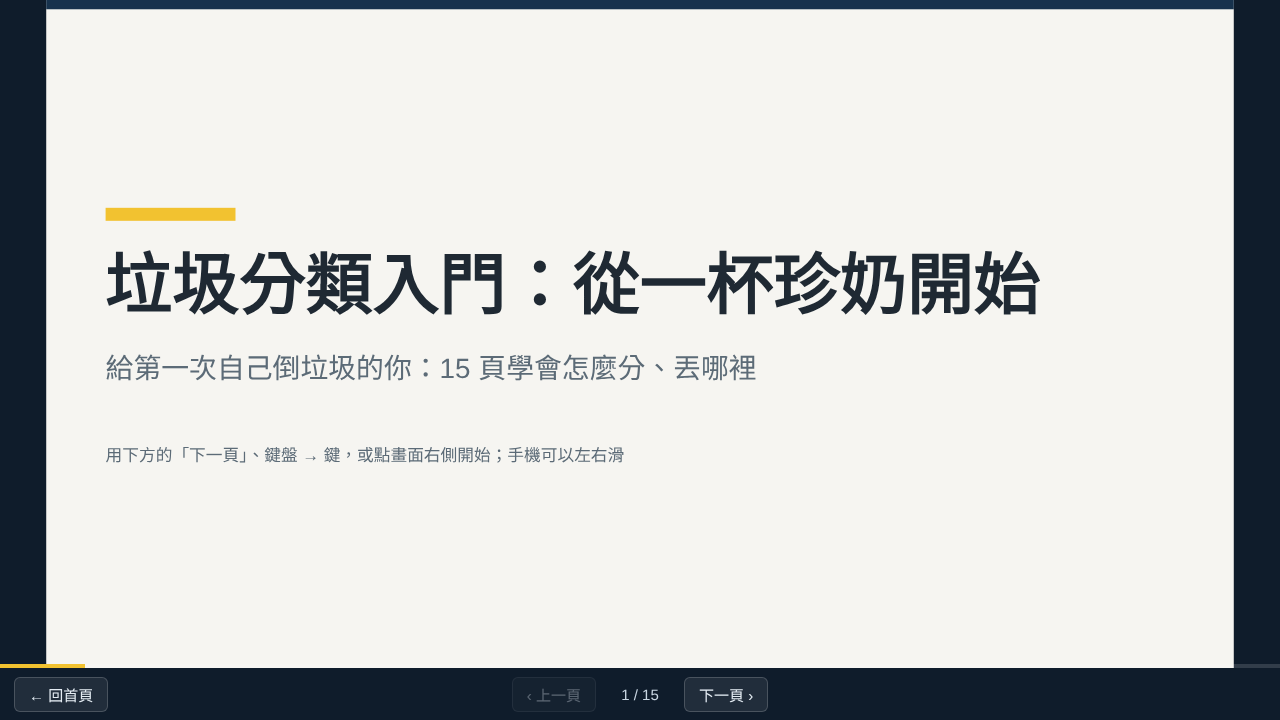
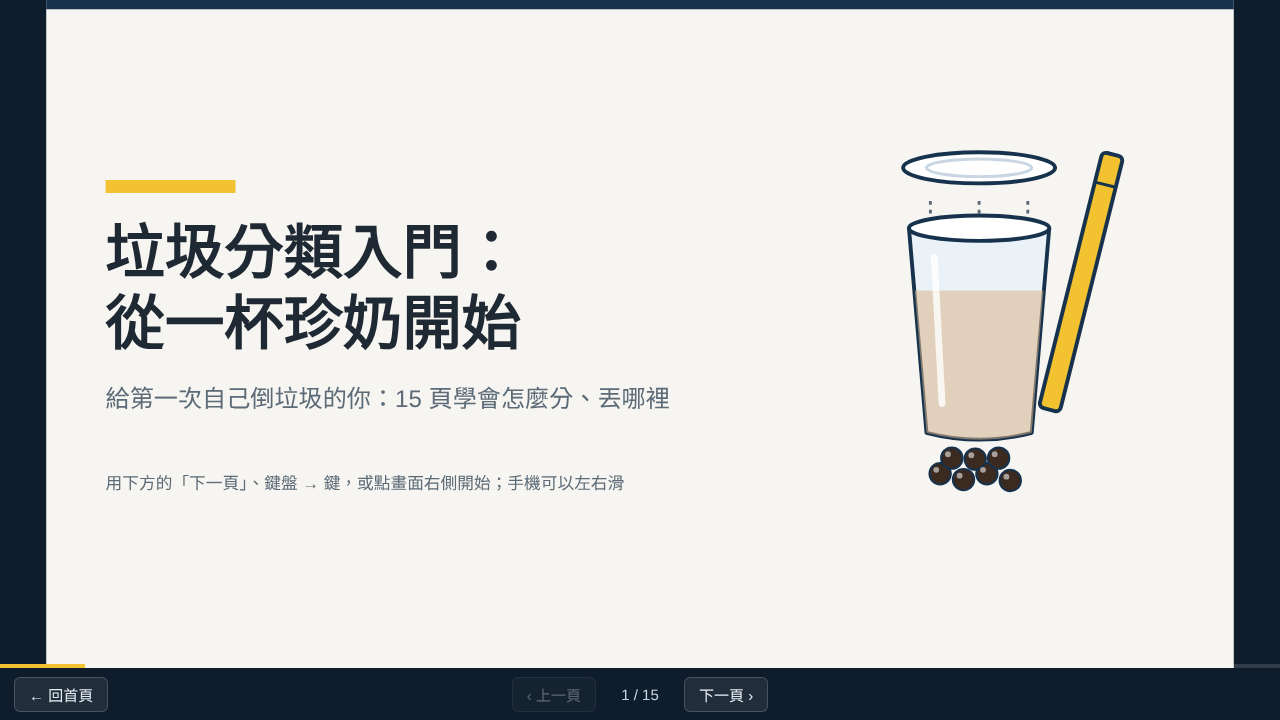
Add files via upload

Changed region(s): [[0.0625, 0.1833, 0.875, 0.7028], [0.0625, 0.6111, 0.5, 0.7028]]

diff --git a/slides/garbage-intro/deck.html b/slides/garbage-intro/deck.html
@@ -44,6 +44,13 @@ footer a { color:var(--muted); }
 .cover h1 { margin:0; font-size:72px; line-height:1.2; }
 .cover .lead { margin-top:22px; font-size:30px; font-weight:400; color:var(--muted); }
 .cover .hint { margin-top:60px; font-size:18px; color:var(--muted); }
+div.cover { max-width:720px; }
+div.cover h1 { font-size:64px; max-width:7.3em; }
+div.cover .lead { font-size:26px; }
+.cover-art { position:absolute; right:96px; top:110px; width:336px; height:420px; }
+.with-art { display:grid; grid-template-columns:1fr 280px; gap:36px; height:100%; }
+.with-art .txt { min-width:0; }
+.with-art .art { width:100%; max-height:100%; align-self:center; }
 #nav { position:fixed; left:0; right:0; bottom:52px; height:4px; background:rgba(255,255,255,.15); }
 #ctrl { position:fixed; left:0; right:0; bottom:0; height:52px; display:flex; align-items:center; justify-content:center; gap:12px; background:#0f1c2b; font-size:15px; }
 #ctrl a, #ctrl button { font:inherit; color:#e4ecf3; background:rgba(255,255,255,.08); border:1px solid rgba(255,255,255,.18); border-radius:6px; padding:6px 14px; text-decoration:none; cursor:pointer; }
@@ -61,7 +68,7 @@ footer a { color:var(--muted); }
 </head>
 <body>
 <div id="stage">
-<section class="slide cover" data-page="1"><div class="cover"><div class="stripe"></div><h1>垃圾分類入門：從一杯珍奶開始</h1><p class="lead"><span>給第一次自己倒垃圾的你：15 頁學會怎麼分、丟哪裡</span></p><p class="hint">用下方的「下一頁」、鍵盤 → 鍵，或點畫面右側開始；手機可以左右滑</p></div></section>
+<section class="slide cover" data-page="1"><div class="cover"><div class="stripe"></div><h1>垃圾分類入門：從一杯珍奶開始</h1><p class="lead"><span>給第一次自己倒垃圾的你：15 頁學會怎麼分、丟哪裡</span></p><p class="hint">用下方的「下一頁」、鍵盤 → 鍵，或點畫面右側開始；手機可以左右滑</p></div><img class="cover-art" src="art/bubble-tea.svg" alt=""></section>
 <section class="slide points" data-page="2"><header><div class="goal">這頁要學會：知道丟錯有罰則，也知道 10 萬元是上限不是固定金額</div><h2>為什麼要學：丟錯是會被罰的</h2></header>
 <div class="body points"><p class="lead"><span>沒照規定分類、排出，是會被處罰的。</span><a class="c" href="../../wiki.html?f=wiki/sources/doc_17.md" title="垃圾丟錯會被罰多少">17</a></p><ul><li><span>沒照規定分類、排出，會依廢棄物清理法第 50 條處罰。</span><a class="c" href="../../wiki.html?f=wiki/sources/doc_17.md" title="垃圾丟錯會被罰多少">17</a></li><li><span>2026 年修法後，罰鍰是新臺幣 1,200 元以上、10 萬元以下。</span><a class="c" href="../../wiki.html?f=wiki/sources/doc_17.md" title="垃圾丟錯會被罰多少">17</a></li><li><span>10 萬元是上限，不是丟錯一次就罰 10 萬元，實際罰多少依違規情節決定。</span><a class="c" href="../../wiki.html?f=wiki/sources/doc_17.md" title="垃圾丟錯會被罰多少">17</a></li><li><span>被通知限期改善卻沒改善，可以按次處罰。</span><a class="c" href="../../wiki.html?f=wiki/sources/doc_17.md" title="垃圾丟錯會被罰多少">17</a></li></ul></div>
 <footer><span class="src">出處：<a href="../../wiki.html?f=wiki/sources/doc_17.md">doc_17 垃圾丟錯會被罰多少</a></span><span class="no">2 / 15</span></footer></section>
@@ -72,10 +79,10 @@ footer a { color:var(--muted); }
 <div class="body steps"><ol><li><span>拆：先拿掉手搖杯的吸管和封膜、寶特瓶的瓶蓋、紙袋的提繩。</span><a class="c" href="../../wiki.html?f=wiki/sources/doc_01.md" title="手搖飲料杯怎麼丟">01</a><a class="c" href="../../wiki.html?f=wiki/sources/doc_05.md" title="寶特瓶與塑膠容器">05</a><a class="c" href="../../wiki.html?f=wiki/sources/doc_03.md" title="紙類回收：哪些可以、哪些不行">03</a></li><li><span>倒：倒空內容物，便當的剩菜剩飯倒進廚餘回收桶。</span><a class="c" href="../../wiki.html?f=wiki/sources/doc_02.md" title="便當盒、紙餐具與免洗餐具">02</a><a class="c" href="../../wiki.html?f=wiki/sources/doc_05.md" title="寶特瓶與塑膠容器">05</a><a class="c" href="../../wiki.html?f=wiki/sources/doc_08.md" title="鐵罐、鋁罐與高壓罐">08</a></li><li><span>沖：鐵鋁罐和玻璃容器用水略為沖洗，寶特瓶沖洗後瀝乾，紙餐具稍微擦拭或沖洗就好。</span><a class="c" href="../../wiki.html?f=wiki/sources/doc_08.md" title="鐵罐、鋁罐與高壓罐">08</a><a class="c" href="../../wiki.html?f=wiki/sources/doc_09.md" title="玻璃、陶瓷與碎玻璃">09</a><a class="c" href="../../wiki.html?f=wiki/sources/doc_05.md" title="寶特瓶與塑膠容器">05</a><a class="c" href="../../wiki.html?f=wiki/sources/doc_02.md" title="便當盒、紙餐具與免洗餐具">02</a></li><li><span>壓：紙箱拆開壓平，寶特瓶、鐵鋁罐、鋁箔包壓扁。</span><a class="c" href="../../wiki.html?f=wiki/sources/doc_03.md" title="紙類回收：哪些可以、哪些不行">03</a><a class="c" href="../../wiki.html?f=wiki/sources/doc_05.md" title="寶特瓶與塑膠容器">05</a><a class="c" href="../../wiki.html?f=wiki/sources/doc_08.md" title="鐵罐、鋁罐與高壓罐">08</a><a class="c" href="../../wiki.html?f=wiki/sources/doc_04.md" title="鋁箔包與紙盒包">04</a></li><li><span>包：燈管用紙套包好；打破的玻璃、刀片也要包好並標示，再依當地規定交出。</span><a class="c" href="../../wiki.html?f=wiki/sources/doc_11.md" title="日光燈管、燈泡與水銀溫度計">11</a><a class="c" href="../../wiki.html?f=wiki/sources/doc_09.md" title="玻璃、陶瓷與碎玻璃">09</a></li></ol></div>
 <footer><span class="src">出處：<a href="../../wiki.html?f=wiki/sources/doc_01.md">doc_01 手搖飲料杯怎麼丟</a>、<a href="../../wiki.html?f=wiki/sources/doc_02.md">doc_02 便當盒、紙餐具與免洗餐具</a>、<a href="../../wiki.html?f=wiki/sources/doc_03.md">doc_03 紙類回收：哪些可以、哪些不行</a>、<a href="../../wiki.html?f=wiki/sources/doc_04.md">doc_04 鋁箔包與紙盒包</a>、<a href="../../wiki.html?f=wiki/sources/doc_05.md">doc_05 寶特瓶與塑膠容器</a>、<a href="../../wiki.html?f=wiki/sources/doc_08.md">doc_08 鐵罐、鋁罐與高壓罐</a>、<a href="../../wiki.html?f=wiki/sources/doc_09.md">doc_09 玻璃、陶瓷與碎玻璃</a>、<a href="../../wiki.html?f=wiki/sources/doc_11.md">doc_11 日光燈管、燈泡與水銀溫度計</a></span><span class="no">4 / 15</span></footer></section>
 <section class="slide table" data-page="5"><header><div class="goal">這頁要學會：能把一杯手搖飲拆開，各自丟對地方</div><h2>例子一：一杯珍奶要拆開來丟</h2></header>
-<div class="body table"><p class="lead"><span>手搖飲料杯可以回收，但要先拆解、清洗。</span><a class="c" href="../../wiki.html?f=wiki/sources/doc_01.md" title="手搖飲料杯怎麼丟">01</a></p><table><thead><tr><th>部分</th><th>丟哪裡</th><th>怎麼處理</th></tr></thead><tbody><tr><td>塑膠杯身</td><td>資源回收</td><td>倒空，用清水簡單沖洗<a class="c" href="../../wiki.html?f=wiki/sources/doc_01.md" title="手搖飲料杯怎麼丟">01</a></td></tr><tr><td>杯口封膜</td><td>一般垃圾</td><td>撕掉<a class="c" href="../../wiki.html?f=wiki/sources/doc_01.md" title="手搖飲料杯怎麼丟">01</a></td></tr><tr><td>吸管</td><td>一般垃圾</td><td>拔掉<a class="c" href="../../wiki.html?f=wiki/sources/doc_01.md" title="手搖飲料杯怎麼丟">01</a></td></tr><tr><td>剩下的珍珠</td><td>依當地廚餘規定</td><td>屬於食物殘渣，不要留在杯子裡<a class="c" href="../../wiki.html?f=wiki/sources/doc_01.md" title="手搖飲料杯怎麼丟">01</a></td></tr></tbody></table></div>
+<div class="body table"><div class="with-art"><div class="txt"><p class="lead"><span>手搖飲料杯可以回收，但要先拆解、清洗。</span><a class="c" href="../../wiki.html?f=wiki/sources/doc_01.md" title="手搖飲料杯怎麼丟">01</a></p><table><thead><tr><th>部分</th><th>丟哪裡</th><th>怎麼處理</th></tr></thead><tbody><tr><td>塑膠杯身</td><td>資源回收</td><td>倒空，用清水簡單沖洗<a class="c" href="../../wiki.html?f=wiki/sources/doc_01.md" title="手搖飲料杯怎麼丟">01</a></td></tr><tr><td>杯口封膜</td><td>一般垃圾</td><td>撕掉<a class="c" href="../../wiki.html?f=wiki/sources/doc_01.md" title="手搖飲料杯怎麼丟">01</a></td></tr><tr><td>吸管</td><td>一般垃圾</td><td>拔掉<a class="c" href="../../wiki.html?f=wiki/sources/doc_01.md" title="手搖飲料杯怎麼丟">01</a></td></tr><tr><td>剩下的珍珠</td><td>依當地廚餘規定</td><td>屬於食物殘渣，不要留在杯子裡<a class="c" href="../../wiki.html?f=wiki/sources/doc_01.md" title="手搖飲料杯怎麼丟">01</a></td></tr></tbody></table></div><img class="art" src="art/bubble-tea.svg" alt=""></div></div>
 <footer><span class="src">出處：<a href="../../wiki.html?f=wiki/sources/doc_01.md">doc_01 手搖飲料杯怎麼丟</a></span><span class="no">5 / 15</span></footer></section>
 <section class="slide steps" data-page="6"><header><div class="goal">這頁要學會：知道便當盒不用洗到全新也能回收</div><h2>例子二：吃完的紙便當盒</h2></header>
-<div class="body steps"><p class="lead"><span>不需要洗到全新，稍微擦拭或沖洗一下就能回收。</span><a class="c" href="../../wiki.html?f=wiki/sources/doc_02.md" title="便當盒、紙餐具與免洗餐具">02</a></p><ol><li><span>把剩菜、剩飯倒進廚餘回收桶。</span><a class="c" href="../../wiki.html?f=wiki/sources/doc_02.md" title="便當盒、紙餐具與免洗餐具">02</a></li><li><span>吸管等不是紙的東西先拿掉。</span><a class="c" href="../../wiki.html?f=wiki/sources/doc_02.md" title="便當盒、紙餐具與免洗餐具">02</a></li><li><span>稍微擦拭或沖洗一下。</span><a class="c" href="../../wiki.html?f=wiki/sources/doc_02.md" title="便當盒、紙餐具與免洗餐具">02</a></li><li><span>瀝乾後再交出。</span><a class="c" href="../../wiki.html?f=wiki/sources/doc_02.md" title="便當盒、紙餐具與免洗餐具">02</a></li><li><span>塑膠或保麗龍的免洗餐具也一樣：先去除食物殘渣，略為沖洗、擦乾淨後回收。</span><a class="c" href="../../wiki.html?f=wiki/sources/doc_02.md" title="便當盒、紙餐具與免洗餐具">02</a><a class="c" href="../../wiki.html?f=wiki/sources/doc_07.md" title="保麗龍怎麼回收">07</a></li></ol></div>
+<div class="body steps"><div class="with-art"><div class="txt"><p class="lead"><span>不需要洗到全新，稍微擦拭或沖洗一下就能回收。</span><a class="c" href="../../wiki.html?f=wiki/sources/doc_02.md" title="便當盒、紙餐具與免洗餐具">02</a></p><ol><li><span>把剩菜、剩飯倒進廚餘回收桶。</span><a class="c" href="../../wiki.html?f=wiki/sources/doc_02.md" title="便當盒、紙餐具與免洗餐具">02</a></li><li><span>吸管等不是紙的東西先拿掉。</span><a class="c" href="../../wiki.html?f=wiki/sources/doc_02.md" title="便當盒、紙餐具與免洗餐具">02</a></li><li><span>稍微擦拭或沖洗一下。</span><a class="c" href="../../wiki.html?f=wiki/sources/doc_02.md" title="便當盒、紙餐具與免洗餐具">02</a></li><li><span>瀝乾後再交出。</span><a class="c" href="../../wiki.html?f=wiki/sources/doc_02.md" title="便當盒、紙餐具與免洗餐具">02</a></li><li><span>塑膠或保麗龍的免洗餐具也一樣：先去除食物殘渣，略為沖洗、擦乾淨後回收。</span><a class="c" href="../../wiki.html?f=wiki/sources/doc_02.md" title="便當盒、紙餐具與免洗餐具">02</a><a class="c" href="../../wiki.html?f=wiki/sources/doc_07.md" title="保麗龍怎麼回收">07</a></li></ol></div><img class="art" src="art/lunchbox.svg" alt=""></div></div>
 <footer><span class="src">出處：<a href="../../wiki.html?f=wiki/sources/doc_02.md">doc_02 便當盒、紙餐具與免洗餐具</a>、<a href="../../wiki.html?f=wiki/sources/doc_07.md">doc_07 保麗龍怎麼回收</a></span><span class="no">6 / 15</span></footer></section>
 <section class="slide two-col" data-page="7"><header><div class="goal">這頁要學會：分得出能回收的紙和不能回收的紙</div><h2>紙類：哪些可以回收，哪些不行</h2></header>
 <div class="body two-col"><div class="two"><div class="col"><h3>可以回收</h3><ul><li><span>紙箱、報紙、雜誌、書籍、影印紙、紙袋、信封、衛生紙捲筒。</span><a class="c" href="../../wiki.html?f=wiki/sources/doc_03.md" title="紙類回收：哪些可以、哪些不行">03</a></li><li><span>紙箱要拆開壓平，紙袋要拿掉提繩。</span><a class="c" href="../../wiki.html?f=wiki/sources/doc_03.md" title="紙類回收：哪些可以、哪些不行">03</a></li><li><span>手搖飲紙杯也能回收，但多數是淋膜紙杯，要和一般紙類分開交給資源回收車。</span><a class="c" href="../../wiki.html?f=wiki/sources/doc_01.md" title="手搖飲料杯怎麼丟">01</a></li></ul></div><div class="col"><h3>不能回收，要當一般垃圾</h3><ul><li><span>用過的衛生紙、紙尿布。</span><a class="c" href="../../wiki.html?f=wiki/sources/doc_03.md" title="紙類回收：哪些可以、哪些不行">03</a></li><li><span>感熱紙：電子發票、傳真紙。</span><a class="c" href="../../wiki.html?f=wiki/sources/doc_03.md" title="紙類回收：哪些可以、哪些不行">03</a></li><li><span>複寫紙、蠟紙、標籤貼紙。</span><a class="c" href="../../wiki.html?f=wiki/sources/doc_03.md" title="紙類回收：哪些可以、哪些不行">03</a></li><li><span>這些紙無法再生，不可以混進紙類回收。</span><a class="c" href="../../wiki.html?f=wiki/sources/doc_03.md" title="紙類回收：哪些可以、哪些不行">03</a></li></ul></div></div></div>
@@ -84,13 +91,13 @@ footer a { color:var(--muted); }
 <div class="body two-col"><div class="two"><div class="col"><h3>可以回收</h3><ul><li><span>寶特瓶、洗髮精瓶、清潔劑瓶、沙拉油瓶、養樂多瓶。</span><a class="c" href="../../wiki.html?f=wiki/sources/doc_05.md" title="寶特瓶與塑膠容器">05</a></li><li><span>有 1 到 7 號回收辨識碼、容量小於 17 公升的塑膠容器。</span><a class="c" href="../../wiki.html?f=wiki/sources/doc_05.md" title="寶特瓶與塑膠容器">05</a></li><li><span>先去除瓶蓋和吸管，倒空、沖洗、瀝乾、壓扁後裝袋。</span><a class="c" href="../../wiki.html?f=wiki/sources/doc_05.md" title="寶特瓶與塑膠容器">05</a></li><li><span>乾淨、沒有油漬的單一材質塑膠袋（實際仍依各地清潔隊規定）。</span><a class="c" href="../../wiki.html?f=wiki/sources/doc_06.md" title="塑膠袋、零食袋與不能回收的塑膠">06</a></li></ul></div><div class="col"><h3>不能回收</h3><ul><li><span>沾到湯汁、油漬、血水的髒塑膠袋，要丟一般垃圾。</span><a class="c" href="../../wiki.html?f=wiki/sources/doc_06.md" title="塑膠袋、零食袋與不能回收的塑膠">06</a></li><li><span>零食包裝袋、茶包外袋：內層常有錫箔或鋁箔，是複合材質，不能當塑膠回收。</span><a class="c" href="../../wiki.html?f=wiki/sources/doc_06.md" title="塑膠袋、零食袋與不能回收的塑膠">06</a></li><li><span>吸管、保鮮膜、膠帶、塑膠繩、塑膠玩具。</span><a class="c" href="../../wiki.html?f=wiki/sources/doc_06.md" title="塑膠袋、零食袋與不能回收的塑膠">06</a></li></ul></div></div></div>
 <footer><span class="src">出處：<a href="../../wiki.html?f=wiki/sources/doc_05.md">doc_05 寶特瓶與塑膠容器</a>、<a href="../../wiki.html?f=wiki/sources/doc_06.md">doc_06 塑膠袋、零食袋與不能回收的塑膠</a></span><span class="no">8 / 15</span></footer></section>
 <section class="slide points" data-page="9"><header><div class="goal">這頁要學會：知道廚餘的基本處理，以及養豬廚餘和堆肥廚餘的差別</div><h2>廚餘：先瀝乾、挑雜物，很多縣市再分兩種</h2></header>
-<div class="body points"><ul><li><span>先瀝乾水分。</span><a class="c" href="../../wiki.html?f=wiki/sources/doc_12.md" title="廚餘：熟廚餘與生廚餘">12</a></li><li><span>把塑膠袋、保麗龍盒、餐具、牙籤這些雜物挑出來。</span><a class="c" href="../../wiki.html?f=wiki/sources/doc_12.md" title="廚餘：熟廚餘與生廚餘">12</a></li><li><span>很多縣市把廚餘分成養豬廚餘（熟廚餘）和堆肥廚餘（生廚餘）兩種。</span><a class="c" href="../../wiki.html?f=wiki/sources/doc_12.md" title="廚餘：熟廚餘與生廚餘">12</a></li><li><span>養豬廚餘：剩菜剩飯、肉類、內臟等適合豬隻食用的熟食。</span><a class="c" href="../../wiki.html?f=wiki/sources/doc_12.md" title="廚餘：熟廚餘與生廚餘">12</a></li><li><span>堆肥廚餘：生菜葉、果皮、茶渣、貝殼、果核。</span><a class="c" href="../../wiki.html?f=wiki/sources/doc_12.md" title="廚餘：熟廚餘與生廚餘">12</a></li><li><span>分不清楚時，通常歸為堆肥廚餘。</span><a class="c" href="../../wiki.html?f=wiki/sources/doc_12.md" title="廚餘：熟廚餘與生廚餘">12</a></li></ul></div>
+<div class="body points"><div class="with-art"><div class="txt"><ul><li><span>先瀝乾水分。</span><a class="c" href="../../wiki.html?f=wiki/sources/doc_12.md" title="廚餘：熟廚餘與生廚餘">12</a></li><li><span>把塑膠袋、保麗龍盒、餐具、牙籤這些雜物挑出來。</span><a class="c" href="../../wiki.html?f=wiki/sources/doc_12.md" title="廚餘：熟廚餘與生廚餘">12</a></li><li><span>很多縣市把廚餘分成養豬廚餘（熟廚餘）和堆肥廚餘（生廚餘）兩種。</span><a class="c" href="../../wiki.html?f=wiki/sources/doc_12.md" title="廚餘：熟廚餘與生廚餘">12</a></li><li><span>養豬廚餘：剩菜剩飯、肉類、內臟等適合豬隻食用的熟食。</span><a class="c" href="../../wiki.html?f=wiki/sources/doc_12.md" title="廚餘：熟廚餘與生廚餘">12</a></li><li><span>堆肥廚餘：生菜葉、果皮、茶渣、貝殼、果核。</span><a class="c" href="../../wiki.html?f=wiki/sources/doc_12.md" title="廚餘：熟廚餘與生廚餘">12</a></li><li><span>分不清楚時，通常歸為堆肥廚餘。</span><a class="c" href="../../wiki.html?f=wiki/sources/doc_12.md" title="廚餘：熟廚餘與生廚餘">12</a></li></ul></div><img class="art" src="art/food-waste.svg" alt=""></div></div>
 <footer><span class="src">出處：<a href="../../wiki.html?f=wiki/sources/doc_12.md">doc_12 廚餘：熟廚餘與生廚餘</a></span><span class="no">9 / 15</span></footer></section>
 <section class="slide points" data-page="10"><header><div class="goal">這頁要學會：知道哪些回收物交出去之前要先特別處理</div><h2>這些要特別處理：高壓罐、電池、燈管</h2></header>
 <div class="body points"><h3>高壓罐（卡式爐瓦斯罐、髮膠、噴霧罐）</h3><ul><li><span>用完後在通風、遠離火源的空曠處排空殘氣，單獨包裝並標示「內有高壓瓶」。</span><a class="c" href="../../wiki.html?f=wiki/sources/doc_08.md" title="鐵罐、鋁罐與高壓罐">08</a></li><li><span>親手交給資源回收車人員，不可以丟進垃圾車的壓縮車。</span><a class="c" href="../../wiki.html?f=wiki/sources/doc_08.md" title="鐵罐、鋁罐與高壓罐">08</a></li></ul><h3>電池與行動電源</h3><ul><li><span>都不可以丟一般垃圾；乾電池取出後，可以交給資源回收車或連鎖超商等業者回收。</span><a class="c" href="../../wiki.html?f=wiki/sources/doc_10.md" title="乾電池與行動電源">10</a></li><li><span>行動電源要儘速排出，排出前單獨存放、避開高溫，正負極貼上絕緣膠帶。</span><a class="c" href="../../wiki.html?f=wiki/sources/doc_10.md" title="乾電池與行動電源">10</a></li></ul><h3>燈管與水銀體溫計</h3><ul><li><span>多數燈管含有水銀，先用紙套包好避免打破，再交給資源回收車或照明光源販賣業者。</span><a class="c" href="../../wiki.html?f=wiki/sources/doc_11.md" title="日光燈管、燈泡與水銀溫度計">11</a></li><li><span>水銀體溫計用原包裝盒打包，交給資源回收車的隨車人員。</span><a class="c" href="../../wiki.html?f=wiki/sources/doc_11.md" title="日光燈管、燈泡與水銀溫度計">11</a></li></ul></div>
 <footer><span class="src">出處：<a href="../../wiki.html?f=wiki/sources/doc_08.md">doc_08 鐵罐、鋁罐與高壓罐</a>、<a href="../../wiki.html?f=wiki/sources/doc_10.md">doc_10 乾電池與行動電源</a>、<a href="../../wiki.html?f=wiki/sources/doc_11.md">doc_11 日光燈管、燈泡與水銀溫度計</a></span><span class="no">10 / 15</span></footer></section>
 <section class="slide steps" data-page="11"><header><div class="goal">這頁要學會：知道巨大垃圾不能直接丟在路邊</div><h2>家具和床墊：要先預約</h2></header>
-<div class="body steps"><ol><li><span>不能趁沒人的時候丟在路邊、垃圾集中區或垃圾車停靠點。</span><a class="c" href="../../wiki.html?f=wiki/sources/doc_16.md" title="巨大垃圾：家具與床墊">16</a></li><li><span>先聯絡所在地環保局、清潔隊或受委託的清運單位。</span><a class="c" href="../../wiki.html?f=wiki/sources/doc_16.md" title="巨大垃圾：家具與床墊">16</a></li><li><span>約好清運日期和指定地點。</span><a class="c" href="../../wiki.html?f=wiki/sources/doc_16.md" title="巨大垃圾：家具與床墊">16</a></li><li><span>在規定時間排出。</span><a class="c" href="../../wiki.html?f=wiki/sources/doc_16.md" title="巨大垃圾：家具與床墊">16</a></li></ol></div>
+<div class="body steps"><div class="with-art"><div class="txt"><ol><li><span>不能趁沒人的時候丟在路邊、垃圾集中區或垃圾車停靠點。</span><a class="c" href="../../wiki.html?f=wiki/sources/doc_16.md" title="巨大垃圾：家具與床墊">16</a></li><li><span>先聯絡所在地環保局、清潔隊或受委託的清運單位。</span><a class="c" href="../../wiki.html?f=wiki/sources/doc_16.md" title="巨大垃圾：家具與床墊">16</a></li><li><span>約好清運日期和指定地點。</span><a class="c" href="../../wiki.html?f=wiki/sources/doc_16.md" title="巨大垃圾：家具與床墊">16</a></li><li><span>在規定時間排出。</span><a class="c" href="../../wiki.html?f=wiki/sources/doc_16.md" title="巨大垃圾：家具與床墊">16</a></li></ol></div><img class="art" src="art/mattress.svg" alt=""></div></div>
 <footer><span class="src">出處：<a href="../../wiki.html?f=wiki/sources/doc_16.md">doc_16 巨大垃圾：家具與床墊</a></span><span class="no">11 / 15</span></footer></section>
 <section class="slide two-col" data-page="12"><header><div class="goal">這頁要學會：知道有些東西沒有全國統一的答案</div><h2>各地規定不一樣：以蛋殼為例</h2></header>
 <div class="body two-col"><p class="lead"><span>垃圾分類有全國共通的原則，但細節各地不一樣；不確定時可以查所在地清潔隊的公告。</span><a class="c" href="../../wiki.html?f=wiki/sources/doc_18.md" title="各縣市規定不同時怎麼查">18</a></p><div class="two"><div class="col"><h3>蛋殼列入廚餘回收</h3><ul><li><span>基隆、臺北、新北、桃園、高雄、宜蘭、苗栗、雲林、澎湖，共 9 個縣市。</span><a class="c" href="../../wiki.html?f=wiki/sources/doc_12.md" title="廚餘：熟廚餘與生廚餘">12</a></li><li><span>這是依 2026 年 1 月的報導。</span><a class="c" href="../../wiki.html?f=wiki/sources/doc_12.md" title="廚餘：熟廚餘與生廚餘">12</a></li></ul></div><div class="col"><h3>蛋殼當一般垃圾</h3><ul><li><span>臺中、臺南、彰化等地通常當一般垃圾。</span><a class="c" href="../../wiki.html?f=wiki/sources/doc_12.md" title="廚餘：熟廚餘與生廚餘">12</a></li></ul></div></div></div>

diff --git a/tools/slides/render.py b/tools/slides/render.py
@@ -54,6 +54,10 @@ def li(items, ordered=False):
     return f"<{tag}>{''.join(out)}</{tag}>"
 
 
+# 插圖：自己用 SVG 畫的示意圖（art/ 資料夾），不含文字，只放在留白比較多的頁面。
+# 插圖不帶任何資訊，所以不經過證據卡和忠實度審查；改這裡只影響版面，要重跑渲染關卡。
+ART = {1: "bubble-tea", 5: "bubble-tea", 6: "lunchbox", 9: "food-waste", 11: "mattress"}
+
 slides = []
 files = sorted((d / "drafts").glob("[0-9][0-9].md"))
 for f in files:
@@ -64,7 +68,8 @@ for f in files:
     lead_plain, lead_tags, _ = cite_html(lead) if lead else ("", "", [])
     lead_html = f'<p class="lead"><span>{lead_plain}</span>{lead_tags}</p>' if lead else ""
     if layout == "cover":
-        inner = f'<div class="cover"><div class="stripe"></div><h1>{esc(title)}</h1>{lead_html}<p class="hint">用下方的「下一頁」、鍵盤 → 鍵，或點畫面右側開始；手機可以左右滑</p></div>'
+        art = f'<img class="cover-art" src="art/{ART[page]}.svg" alt="">' if page in ART else ""
+        inner = f'<div class="cover"><div class="stripe"></div><h1>{esc(title)}</h1>{lead_html}<p class="hint">用下方的「下一頁」、鍵盤 → 鍵，或點畫面右側開始；手機可以左右滑</p></div>{art}'
     else:
         if layout == "table":
             rows = []
@@ -83,7 +88,7 @@ for f in files:
             content = "".join((f"<h3>{esc(h)}</h3>" if h else "") + li(items, layout == "steps") for h, items in sections)
         src = "、".join(f'<a href="{WIKI_VIEW}{x}.md">{x} {esc(titles.get(x, ""))}</a>' for x in docs)
         inner = f'''<header><div class="goal">這頁要學會：{esc(goals.get(page, ""))}</div><h2>{esc(title)}</h2></header>
-<div class="body {layout}">{lead_html}{content}</div>
+<div class="body {layout}">{f'<div class="with-art"><div class="txt">{lead_html}{content}</div><img class="art" src="art/{ART[page]}.svg" alt=""></div>' if page in ART else lead_html + content}</div>
 <footer><span class="src">出處：{src}</span><span class="no">{page} / {len(files)}</span></footer>'''
     slides.append(f'<section class="slide {layout}" data-page="{page}">{inner}</section>')
 
@@ -133,6 +138,13 @@ footer a {{ color:var(--muted); }}
 .cover h1 {{ margin:0; font-size:72px; line-height:1.2; }}
 .cover .lead {{ margin-top:22px; font-size:30px; font-weight:400; color:var(--muted); }}
 .cover .hint {{ margin-top:60px; font-size:18px; color:var(--muted); }}
+div.cover {{ max-width:720px; }}
+div.cover h1 {{ font-size:64px; max-width:7.3em; }}
+div.cover .lead {{ font-size:26px; }}
+.cover-art {{ position:absolute; right:96px; top:110px; width:336px; height:420px; }}
+.with-art {{ display:grid; grid-template-columns:1fr 280px; gap:36px; height:100%; }}
+.with-art .txt {{ min-width:0; }}
+.with-art .art {{ width:100%; max-height:100%; align-self:center; }}
 #nav {{ position:fixed; left:0; right:0; bottom:52px; height:4px; background:rgba(255,255,255,.15); }}
 #ctrl {{ position:fixed; left:0; right:0; bottom:0; height:52px; display:flex; align-items:center; justify-content:center; gap:12px; background:#0f1c2b; font-size:15px; }}
 #ctrl a, #ctrl button {{ font:inherit; color:#e4ecf3; background:rgba(255,255,255,.08); border:1px solid rgba(255,255,255,.18); border-radius:6px; padding:6px 14px; text-decoration:none; cursor:pointer; }}

diff --git a/slides/garbage-intro/report.md b/slides/garbage-intro/report.md
@@ -10,7 +10,8 @@
 | ④ 證據卡關卡 | 4 | 0 | 通過 |
 | ⑥ 大綱關卡 | 4 | 0 | 通過 |
 | ⑧ 逐頁稿關卡 | 7 | 0 | 通過 |
-| ⑪ 渲染關卡 | 8 | 2 | 通過 |
+| ⑪ 渲染關卡 | 11 | 2 | 通過 |
+| 版面調整（不改內容） | 1 | 1 | 完成 |
 
 ## AI 審查（每一輪都是另開的新 AI，只看稿子和 raw/）
 
@@ -23,7 +24,7 @@
 
 ## 結論
 
-程式關卡最後一次全部通過。 AI 審查共找出 46 個問題，每一輪找到的問題都已修正並重跑程式關卡；最後一輪修正後依小圈上限沒有再送審，所以最後兩處修改只經過程式關卡檢查。
+還有程式關卡沒通過，不能交件。 AI 審查共找出 46 個問題，每一輪找到的問題都已修正並重跑程式關卡；最後一輪修正後依小圈上限沒有再送審，所以最後兩處修改只經過程式關卡檢查。
 
 ## 執行順序（照時間）
 
@@ -58,5 +59,9 @@
 29. 2026-11-14 18:36:19　⑪ 渲染關卡　通過
 30. 2026-11-14 20:23:41　⑪ 渲染關卡　通過
 31. 2026-11-14 20:25:28　⑪ 渲染關卡　通過
+32. 2026-11-14 20:36:15　⑪ 渲染關卡　通過
+33. 2026-11-14 20:36:58　⑪ 渲染關卡　通過
+34. 2026-11-14 20:37:13　⑪ 渲染關卡　通過
+35. 2026-11-14 20:37:32　版面調整（不改內容）　完成
 
 詳細的問題清單在 `run-log.md`，AI 審查的內容在 `review-*.md` 和 `../../reviews/`，每頁截圖在 `shots/`。

diff --git a/slides/garbage-intro/run-log.md b/slides/garbage-intro/run-log.md
@@ -120,3 +120,15 @@
 
 ## 2026-11-14 20:25:28｜⑪ 渲染關卡｜通過
 用 1280×720 檢查了 15 頁，截圖在 shots/
+
+## 2026-11-14 20:36:15｜⑪ 渲染關卡｜通過
+用 1280×720 檢查了 15 頁，截圖在 shots/
+
+## 2026-11-14 20:36:58｜⑪ 渲染關卡｜通過
+用 1280×720 檢查了 15 頁，截圖在 shots/
+
+## 2026-11-14 20:37:13｜⑪ 渲染關卡｜通過
+用 1280×720 檢查了 15 頁，截圖在 shots/
+
+## 2026-11-14 20:37:32｜版面調整（不改內容）｜完成
+交件後依使用者意見調整版面，逐頁稿的文字沒有改：簡報下方加上一頁、下一頁、回首頁按鈕；封面和第 5、6、9、11 頁加上自己用 SVG 畫的示意插圖（art/ 資料夾，不含文字，不是網路上的照片）。插圖不帶資訊，所以不經過證據卡和忠實度審查，只重跑渲染關卡（上面幾筆）。
